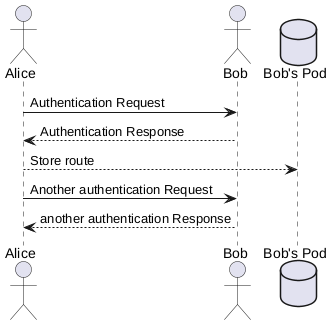
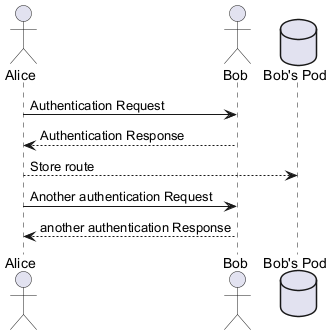
Updates

diff --git a/index.html b/index.html
@@ -1271,7 +1271,7 @@ building block instances depicted in this diagram.&gt;</em></p>
 </div>
 <div class="imageblock">
 <div class="content">
-<img src="./images/Sequence%20diagram.png" alt="Sequence diagram" width="332" height="325">
+<img src="./images/Sequence%20diagram.png" alt="Sequence diagram" width="332" height="335">
 </div>
 </div>
 </div>
@@ -1804,7 +1804,7 @@ more precisely down to a level of scenarios that can be discussed and evaluated.
 <div id="footer">
 <div id="footer-text">
 Version 8.2 EN<br>
-Last updated 2025-02-06 09:19:05 +0100
+Last updated 2025-01-30 10:08:11 +0100
 </div>
 </div>
 </body>
